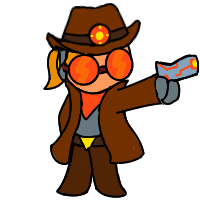
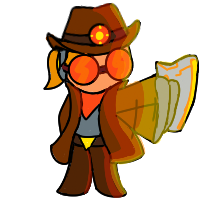
New left shoot animation, 'oneshot' sprite handling system added to 'player.py'

diff --git a/modules/player.py b/modules/player.py
@@ -6,11 +6,12 @@ PLR_ASSETS_PATH = './game_assets/player'
 
 # Class for creating a spritesheet for animated sprites
 class Sprite:
-    def __init__(self, player, name, path):
+    def __init__(self, player, name, path, oneshot=False, custom_interval=None):
         self.name = name
         self.image_list = []
         self.image_path = PLR_ASSETS_PATH + f'/{path}'
         self.current_image = None
+        self.oneshot = oneshot
 
         # Adding every frame image to the list to run through
         name_list = []
@@ -22,17 +23,20 @@ class Sprite:
         name_list.sort()
 
         for filename in name_list:
-            image = pygame.image.load(self.image_path + f'/{filename}').convert_alpha()
-            image = pygame.transform.scale(image, (IMG_SIZE, IMG_SIZE))
+            if filename.endswith('.png'):
+                image = pygame.image.load(self.image_path + f'/{filename}').convert_alpha()
+                image = pygame.transform.scale(image, (IMG_SIZE, IMG_SIZE))
 
-            self.image_list.append(image)
+                self.image_list.append(image)
 
         # Values for updating the animation frame per update interval
         self.index = 0
         self.max_index = len(self.image_list) - 1
         self.tick = 0
+        self.custom_interval = custom_interval
 
         self.visible = False
+        self.shot_enabled = False
 
         player.sprite_list.append(self)
         self.current_image = self.image_list[self.index]
@@ -41,17 +45,40 @@ class Sprite:
     def update(self, player):
         self.tick += 1
 
-        if self.tick > player.update_interval:
-            self.tick = 0
-            self.index += 1
-            if self.index > self.max_index: self.index = 0
+        # Checking if image can update to next shot depending on interval
+        if self.custom_interval:
+            can_update = self.tick > self.custom_interval
+        else:
+            can_update = self.tick > player.update_interval
 
-            self.current_image = self.image_list[self.index]
+        if can_update:
+            # Oneshot mode only runs the animation once, used for single actions.
+            if self.oneshot:
+                if self.shot_enabled:
+                    self.tick = 0
+                    self.index = 0
+                    self.current_image = self.image_list[self.index]
+                    self.shot_enabled = False
+
+                self.tick = 0
+
+                if not self.index > self.max_index:
+                    self.current_image = self.image_list[self.index]
+                    self.index += 1
+
+            # Plays animation constantly if not oneshot mode
+            else:
+                self.tick = 0
+                self.index += 1
+                if self.index > self.max_index: self.index = 0
+
+                self.current_image = self.image_list[self.index]
 
     def draw(self, game):
         if self.visible:
             new_rect = game.player.rect
 
+            # Position on top of bullet train on level 2
             if game.level.stage == 2:
                 new_rect = pygame.Rect(
                     game.player.rect.x + 50,
@@ -66,12 +93,14 @@ class Player(pygame.sprite.Sprite):
         super().__init__()
         self.sprite_list = []
         self.running_list = []
+        self.oneshot_list = []
 
         # Left sprites put first so the game always draws them behind others
         self.run_left = Sprite(self, 'run_left', 'run/left_run')
-        self.left_shoot = Sprite(self, 'left_shoot', 'shoot/left')
+        self.left_shoot = Sprite(self, 'left_shoot', 'shoot/left', True, 5)
         self.run_left_shoot = Sprite(self, 'run_left_shoot', 'run/left_shoot')
         self.running_list.append(self.run_left)
+        self.oneshot_list.append(self.left_shoot)
 
         # Main body sprites
         self.idle = Sprite(self, 'idle', 'idle')
@@ -79,16 +108,16 @@ class Player(pygame.sprite.Sprite):
 
         # Right sprites put last so the game always draws them on top of others
         self.run_right = Sprite(self, 'run_right', 'run/right_run')
-        self.right_shoot = Sprite(self, 'right_shoot', 'shoot/right')
+        self.right_shoot = Sprite(self, 'right_shoot', 'shoot/right', True, 5)
         self.run_right_shoot = Sprite(self, 'run_right_shoot', 'run/right_shoot')
         self.running_list.append(self.run_body)
         self.running_list.append(self.run_right)
+        self.oneshot_list.append(self.right_shoot)
 
         self.rect = pygame.Rect(0, 0, IMG_SIZE, IMG_SIZE)
         self.rect.center = position
-        self.shoot_visual_cd = [0, 30, False]
+        self.shoot_visual_cd = [0, 32, False]
         self.is_running = False
-        self.shooting = False
 
         self.lives = 3
         self.combo = 0
@@ -111,8 +140,6 @@ class Player(pygame.sprite.Sprite):
 
 
     def reset_anim(self):
-        self.shooting = False
-
         for sprite in self.sprite_list:
             sprite.visible = False
 
@@ -125,6 +152,8 @@ class Player(pygame.sprite.Sprite):
     # Handle the basics of shooting animation
     def shoot_anim(self, side):
         self.shooting = True
+        self.shoot_visual_cd[0] = 0
+        self.shoot_visual_cd[2] = True
 
         for sprite in self.sprite_list:
             sprite.visible = False
@@ -141,10 +170,11 @@ class Player(pygame.sprite.Sprite):
         else:
             if side == 'left':
                 self.left_shoot.visible = True
+                self.left_shoot.shot_enabled = True
             elif side == 'right':
                 self.right_shoot.visible = True
+                self.right_shoot.shot_enabled = True
 
-        self.shoot_visual_cd[2] = True
 
     def on_input(self, game):
         if game.player.action:

diff --git a/modules/levels.py b/modules/levels.py
@@ -152,7 +152,6 @@ class Level:
             self.spawn_max = 2
             self.enemy_speed = 3
             self.has_words = True
-            self.distance_per_frame = 3
             game.player.speed = 15
 
         level_config(game, self)
@@ -309,9 +308,9 @@ class Level:
                     self.difficulty_req *= 2
                     game.player.difficulty += 1
 
-                    if game.player.difficulty < 4:
+                    if game.player.difficulty < 5:
                         game.player.speed += 1
-                    elif 6 <= game.player.difficulty < 10:
+                    elif 5 <= game.player.difficulty < 10:
                         game.player.speed += 2
 
                     if self.stage == 2: self.distance_per_frame += 1
